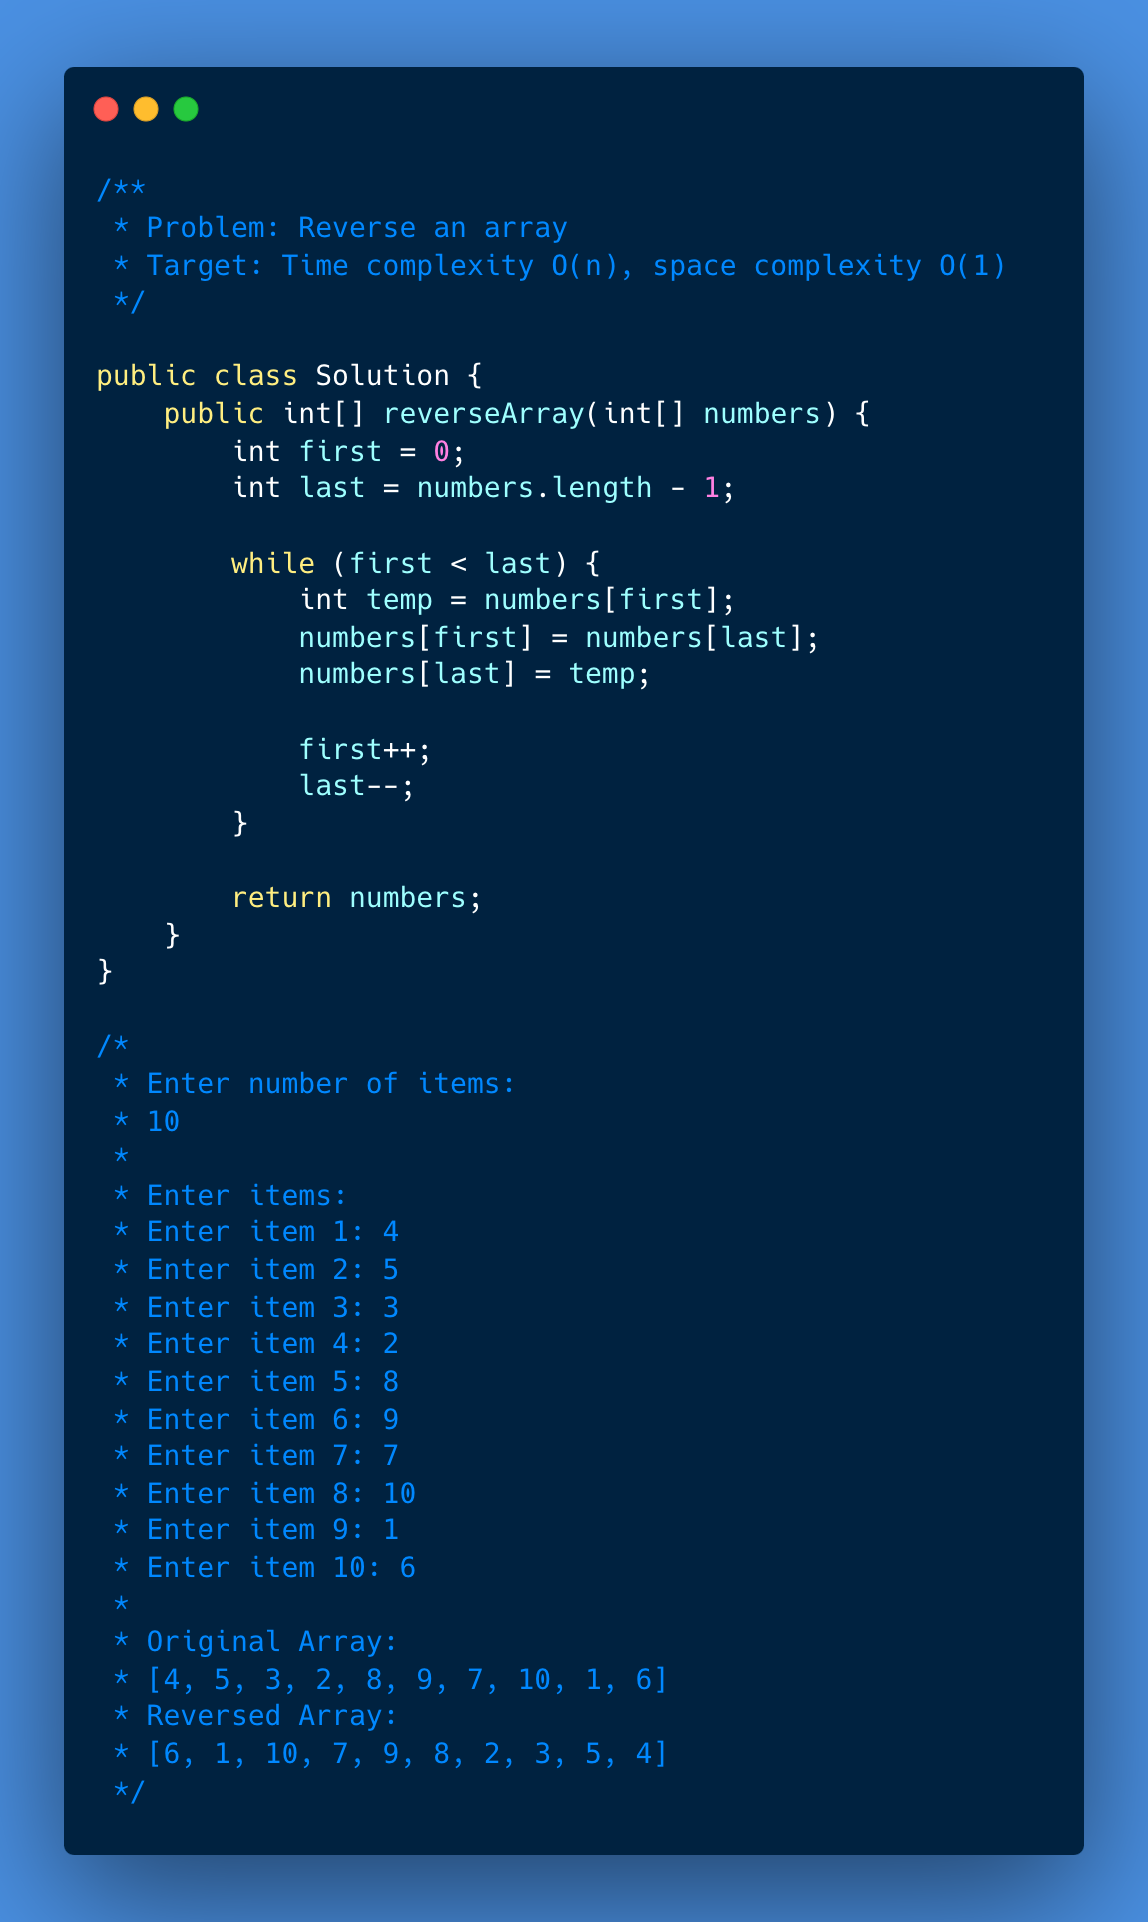
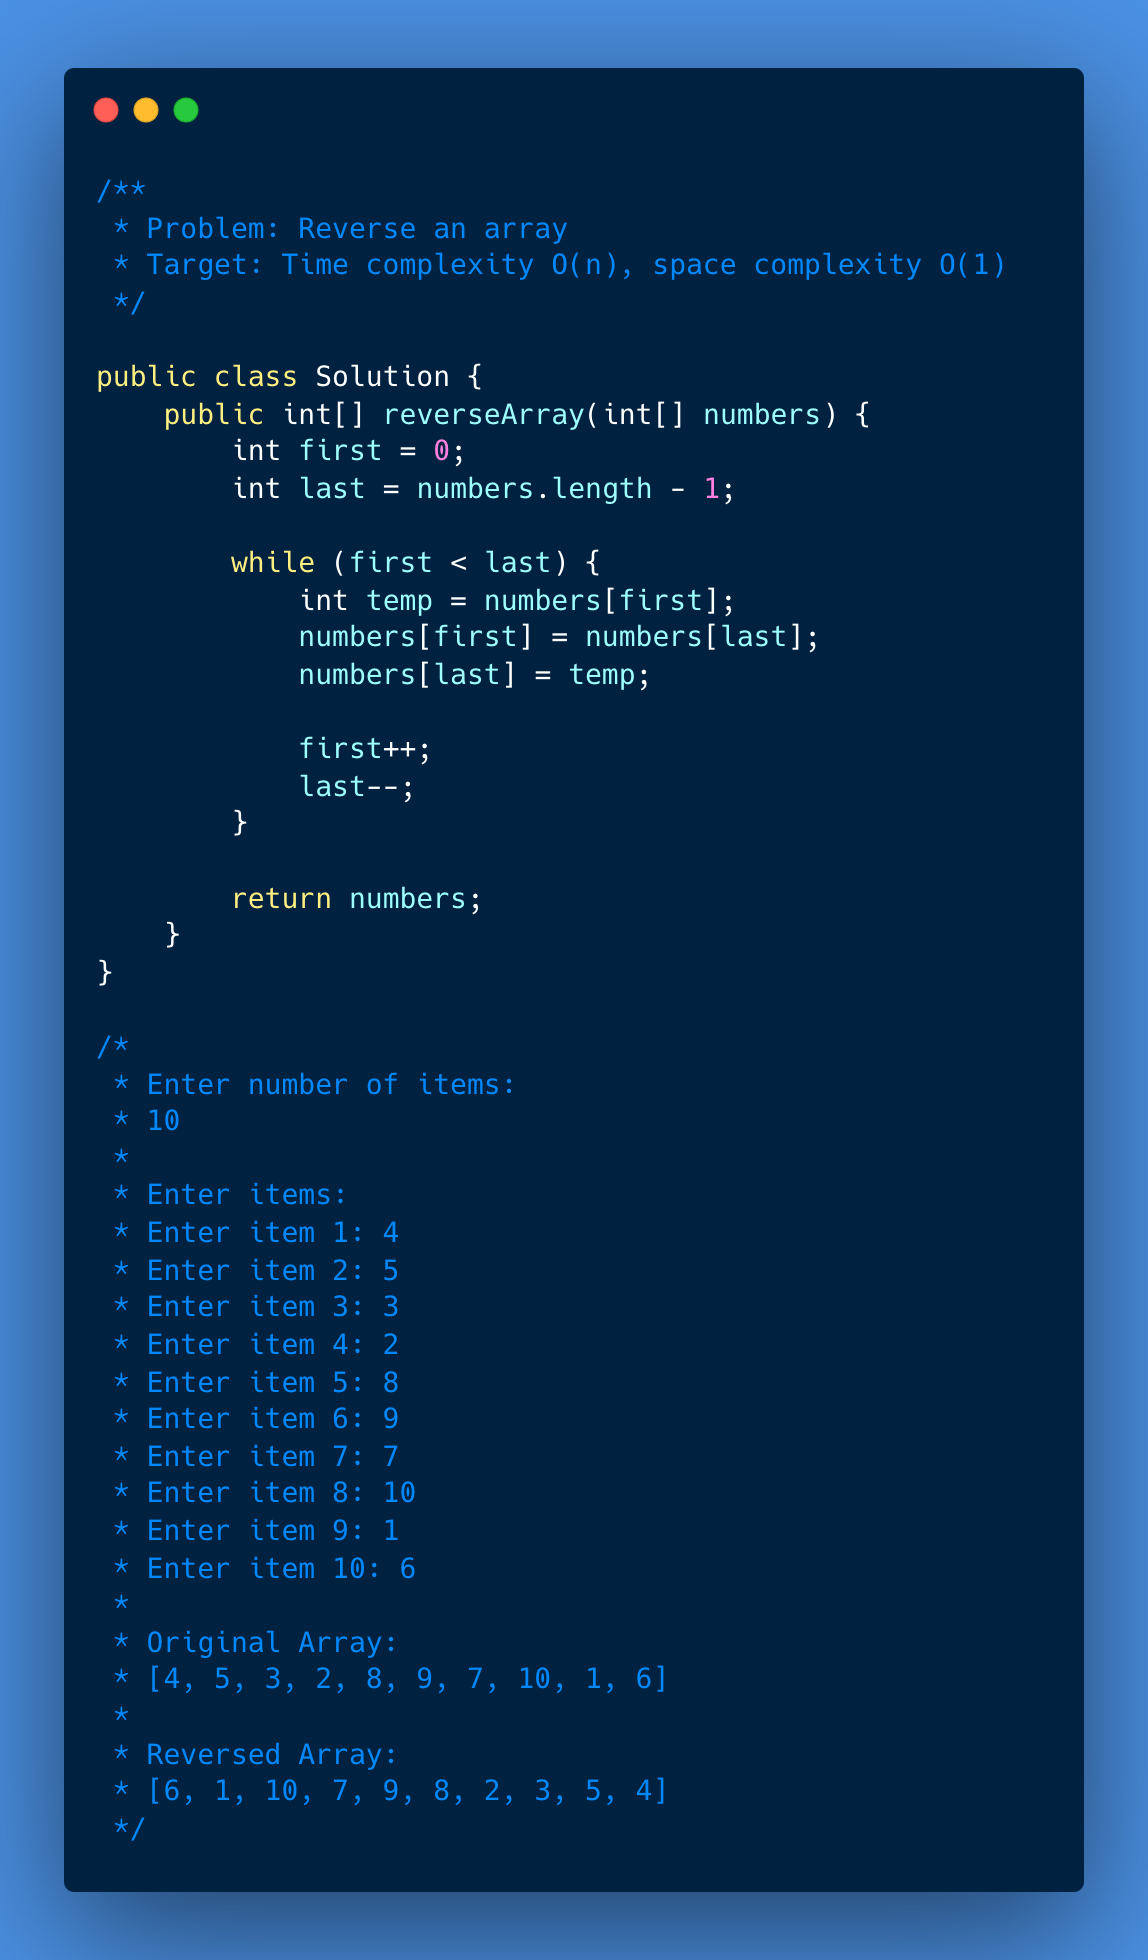
Reverse array updates

diff --git a/045-reverse-array/001-solution/Main.java b/045-reverse-array/001-solution/Main.java
@@ -26,6 +26,7 @@ public class Main {
         int[] reversedNumbers = solution.reverseArray(numbers);
 
         // Output
+        System.out.println();
         System.out.println("Reversed Array:");
         System.out.println(Arrays.toString(reversedNumbers));
 

diff --git a/045-reverse-array/001-solution/Solution.java b/045-reverse-array/001-solution/Solution.java
@@ -39,6 +39,7 @@ public class Solution {
  * 
  * Original Array:
  * [4, 5, 3, 2, 8, 9, 7, 10, 1, 6]
+ * 
  * Reversed Array:
  * [6, 1, 10, 7, 9, 8, 2, 3, 5, 4]
  */
